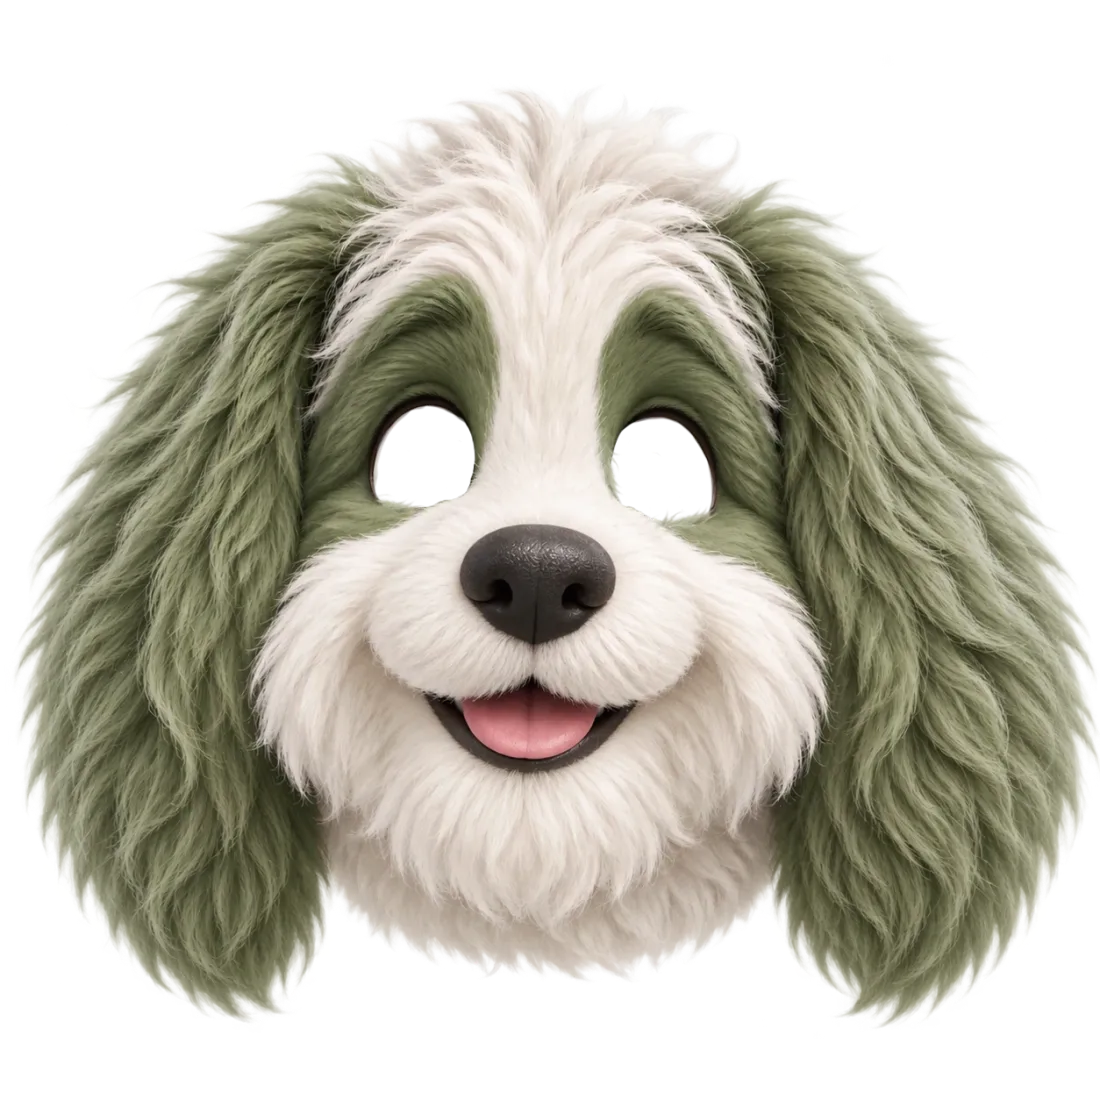
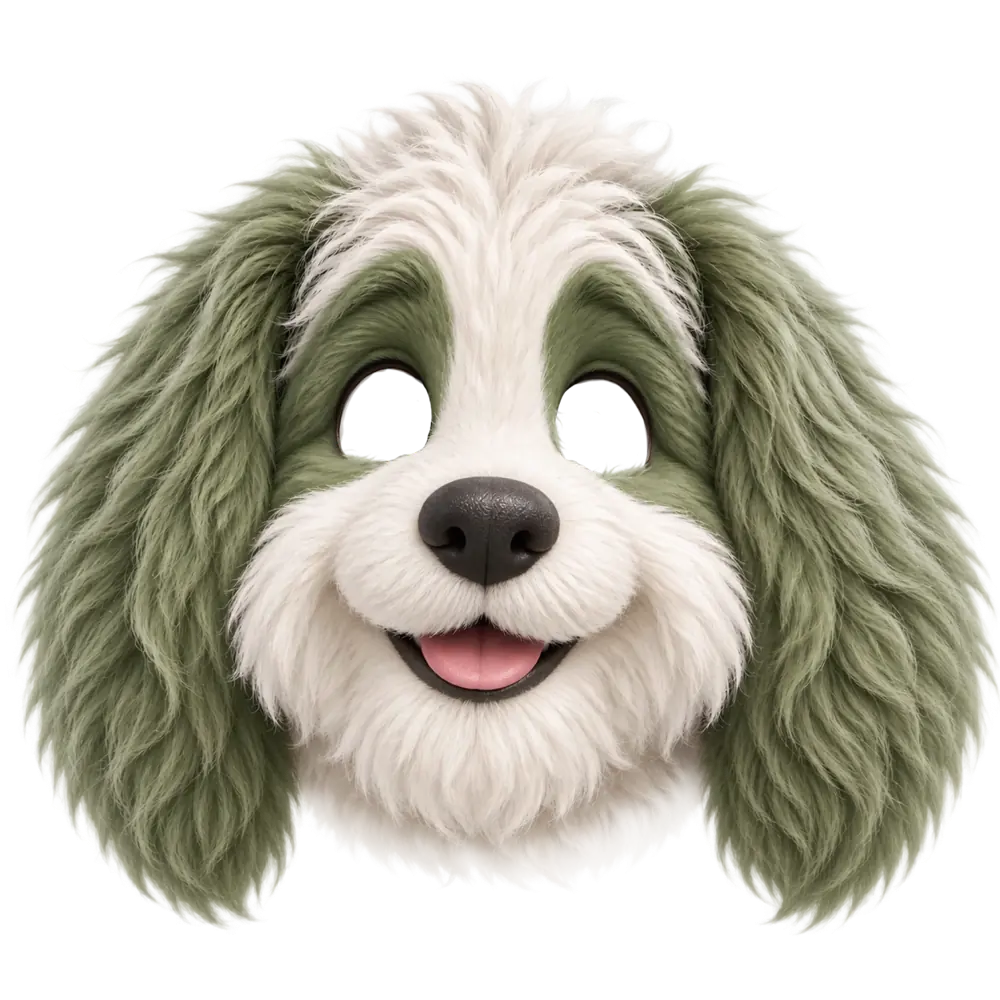
Лендінг: песик із тулубом — нова голова (прозорий низ) і тулуб окремим шаром позаду, стиснуті (1000/1200 px); на телефоні картка туру наїжджає на песика

Changed region(s): [[0.31, 0.744, 0.713, 0.899]]

diff --git a/index.html b/index.html
@@ -22,7 +22,7 @@
 <meta property="og:locale" content="uk_UA">
 <link rel="icon" href="/assets/favicon.png">
 <link rel="preload" href="/assets/fonts/Mulish_700Bold.ttf" as="font" type="font/ttf" crossorigin>
-<link rel="stylesheet" href="/assets/landing.css?v=b6d3cd04">
+<link rel="stylesheet" href="/assets/landing.css?v=844e7712">
 <script>document.documentElement.classList.add('js');try{var th=localStorage.getItem('theme');if(th)document.documentElement.dataset.theme=th}catch(e){}</script>
 <script src="https://cdnjs.cloudflare.com/ajax/libs/gsap/3.12.5/gsap.min.js" defer></script>
 <script src="https://cdnjs.cloudflare.com/ajax/libs/gsap/3.12.5/ScrollTrigger.min.js" defer></script>
@@ -46,9 +46,10 @@
     <p class="lead">Нагадає про ліки й щеплення, покаже аналізи на графіку, а QR на нашийнику допоможе повернути загубленого.</p>
     <div class="cta-row"><a class="btn btn-primary" href="https://play.google.com/store/apps/details?id=com.chepeti.app" rel="noopener"><img class="mono" src="https://cdn.simpleicons.org/googleplay/ffffff" alt="" width="20" height="20">Google Play</a><span class="btn btn-soon" aria-disabled="true"><img src="https://cdn.simpleicons.org/apple/8F8579" alt="" width="20" height="20">App Store <small>скоро</small></span></div>
     <div class="dog" aria-hidden="true">
+      <img class="body" src="/assets/dog/body.webp" alt="" width="1200" height="1200">
       <img class="eye eye-l" src="/assets/dog/eye-l.webp" alt="" width="226" height="226">
       <img class="eye eye-r" src="/assets/dog/eye-r.webp" alt="" width="226" height="226">
-      <img class="head" src="/assets/dog/head.webp" alt="" width="1100" height="1100" fetchpriority="high">
+      <img class="head" src="/assets/dog/head.webp" alt="" width="1000" height="1000" fetchpriority="high">
     </div>
   </div></div>
   <div class="tour-card" data-an="{&quot;dec&quot;: &quot;,&quot;, &quot;prev&quot;: &quot;попередній&quot;, &quot;norm&quot;: &quot;Норма&quot;, &quot;dates&quot;: [&quot;09.12&quot;, &quot;02.01&quot;, &quot;26.01&quot;, &quot;19.02&quot;, &quot;15.03&quot;, &quot;08.04&quot;, &quot;02.05&quot;, &quot;26.05&quot;, &quot;19.06&quot;, &quot;13.07&quot;, &quot;06.08&quot;, &quot;30.08&quot;, &quot;23.09&quot;, &quot;17.10&quot;, &quot;10.11&quot;], &quot;metrics&quot;: [{&quot;name&quot;: &quot;Креатинін&quot;, &quot;unit&quot;: &quot;мкмоль/л&quot;, &quot;v&quot;: [118, 124, 121, 135, 142, 150, 168, 181, 176, 205, 219, 196, 184, 172, 165], &quot;ref&quot;: [71, 212]}, {&quot;name&quot;: &quot;Глюкоза&quot;, &quot;unit&quot;: &quot;ммоль/л&quot;, &quot;v&quot;: [5.1, 5.6, 4.8, 6.2, 5.9, 7.4, 9.1, 8.6, 6.8, 6.1, 5.7, 5.4, 6.0, 5.8, 5.5], &quot;ref&quot;: [3.9, 8.3]}, {&quot;name&quot;: &quot;АЛТ&quot;, &quot;unit&quot;: &quot;Од/л&quot;, &quot;v&quot;: [45, 52, 48, 61, 58, 74, 96, 138, 112, 88, 70, 64, 59, 55, 51], &quot;ref&quot;: [12, 130]}], &quot;rows&quot;: [{&quot;title&quot;: &quot;Біохімія&quot;, &quot;date&quot;: &quot;10 лис 2026&quot;, &quot;series&quot;: 14}, {&quot;title&quot;: &quot;Біохімія&quot;, &quot;date&quot;: &quot;17 жов 2026&quot;, &quot;series&quot;: 13}, {&quot;title&quot;: &quot;Сеча&quot;, &quot;date&quot;: &quot;9 жов 2026&quot;, &quot;vals&quot;: [[&quot;pH&quot;, &quot;6,8&quot;], [&quot;Питома вага&quot;, &quot;1.035&quot;]]}, {&quot;title&quot;: &quot;Кров (загальний аналіз)&quot;, &quot;date&quot;: &quot;4 жов 2026&quot;, &quot;vals&quot;: [[&quot;Лейкоцити&quot;, &quot;14,2×10⁹/л&quot;]]}]}"><div class="tour-steps" aria-hidden="true"><span></span><span></span><span></span><span></span><span></span></div><div class="tour-grid">

diff --git a/en/index.html b/en/index.html
@@ -22,7 +22,7 @@
 <meta property="og:locale" content="en_US">
 <link rel="icon" href="/assets/favicon.png">
 <link rel="preload" href="/assets/fonts/Mulish_700Bold.ttf" as="font" type="font/ttf" crossorigin>
-<link rel="stylesheet" href="/assets/landing.css?v=b6d3cd04">
+<link rel="stylesheet" href="/assets/landing.css?v=844e7712">
 <script>document.documentElement.classList.add('js');try{var th=localStorage.getItem('theme');if(th)document.documentElement.dataset.theme=th}catch(e){}</script>
 <script src="https://cdnjs.cloudflare.com/ajax/libs/gsap/3.12.5/gsap.min.js" defer></script>
 <script src="https://cdnjs.cloudflare.com/ajax/libs/gsap/3.12.5/ScrollTrigger.min.js" defer></script>
@@ -46,9 +46,10 @@
     <p class="lead">Reminds you about meds and vaccines, charts lab results, and a QR tag on the collar helps bring a lost pet home.</p>
     <div class="cta-row"><a class="btn btn-primary" href="https://play.google.com/store/apps/details?id=com.chepeti.app" rel="noopener"><img class="mono" src="https://cdn.simpleicons.org/googleplay/ffffff" alt="" width="20" height="20">Google Play</a><span class="btn btn-soon" aria-disabled="true"><img src="https://cdn.simpleicons.org/apple/8F8579" alt="" width="20" height="20">App Store <small>soon</small></span></div>
     <div class="dog" aria-hidden="true">
+      <img class="body" src="/assets/dog/body.webp" alt="" width="1200" height="1200">
       <img class="eye eye-l" src="/assets/dog/eye-l.webp" alt="" width="226" height="226">
       <img class="eye eye-r" src="/assets/dog/eye-r.webp" alt="" width="226" height="226">
-      <img class="head" src="/assets/dog/head.webp" alt="" width="1100" height="1100" fetchpriority="high">
+      <img class="head" src="/assets/dog/head.webp" alt="" width="1000" height="1000" fetchpriority="high">
     </div>
   </div></div>
   <div class="tour-card" data-an="{&quot;dec&quot;: &quot;.&quot;, &quot;prev&quot;: &quot;previous&quot;, &quot;norm&quot;: &quot;Reference&quot;, &quot;dates&quot;: [&quot;09.12&quot;, &quot;02.01&quot;, &quot;26.01&quot;, &quot;19.02&quot;, &quot;15.03&quot;, &quot;08.04&quot;, &quot;02.05&quot;, &quot;26.05&quot;, &quot;19.06&quot;, &quot;13.07&quot;, &quot;06.08&quot;, &quot;30.08&quot;, &quot;23.09&quot;, &quot;17.10&quot;, &quot;10.11&quot;], &quot;metrics&quot;: [{&quot;name&quot;: &quot;Creatinine&quot;, &quot;unit&quot;: &quot;µmol/L&quot;, &quot;v&quot;: [118, 124, 121, 135, 142, 150, 168, 181, 176, 205, 219, 196, 184, 172, 165], &quot;ref&quot;: [71, 212]}, {&quot;name&quot;: &quot;Glucose&quot;, &quot;unit&quot;: &quot;mmol/L&quot;, &quot;v&quot;: [5.1, 5.6, 4.8, 6.2, 5.9, 7.4, 9.1, 8.6, 6.8, 6.1, 5.7, 5.4, 6.0, 5.8, 5.5], &quot;ref&quot;: [3.9, 8.3]}, {&quot;name&quot;: &quot;ALT&quot;, &quot;unit&quot;: &quot;U/L&quot;, &quot;v&quot;: [45, 52, 48, 61, 58, 74, 96, 138, 112, 88, 70, 64, 59, 55, 51], &quot;ref&quot;: [12, 130]}], &quot;rows&quot;: [{&quot;title&quot;: &quot;Blood chemistry&quot;, &quot;date&quot;: &quot;10 Nov 2026&quot;, &quot;series&quot;: 14}, {&quot;title&quot;: &quot;Blood chemistry&quot;, &quot;date&quot;: &quot;17 Oct 2026&quot;, &quot;series&quot;: 13}, {&quot;title&quot;: &quot;Urinalysis&quot;, &quot;date&quot;: &quot;9 Oct 2026&quot;, &quot;vals&quot;: [[&quot;pH&quot;, &quot;6.8&quot;], [&quot;Specific gravity&quot;, &quot;1.035&quot;]]}, {&quot;title&quot;: &quot;Complete blood count&quot;, &quot;date&quot;: &quot;4 Oct 2026&quot;, &quot;vals&quot;: [[&quot;White blood cells&quot;, &quot;14.2×10⁹/L&quot;]]}]}"><div class="tour-steps" aria-hidden="true"><span></span><span></span><span></span><span></span><span></span></div><div class="tour-grid">

diff --git a/assets/landing.css b/assets/landing.css
@@ -616,3 +616,10 @@ footer .copy { margin-left: auto; }
 .tour.flow .badge > i::after { inset: 7px; }
 .tour.flow .flow-media > .an-set.badge-set { display: block; left: -10px; right: -10px; }
 .tour.flow .flow-step .badge { width: auto; flex: 0 0 auto; max-width: 88%; }
+
+/* Тулуб песика (власник 18.11): окремий шар позаду голови (очі лишаються на своїх місцях), у 1,6 раза ширший за голову —
+   так задано в макеті (2000 px до голови 1254 px); нижня частина ховається під зеленою карткою туру. */
+.dog .body { left: -30%; top: 18%; width: 160%; height: auto; z-index: 0; }
+/* Телефон (тур без «прибивання»): зелена картка наїжджає на низ песика, тулуб ховається під нею. */
+.tour.flow .tour-intro { position: relative; z-index: 0; }
+.tour.flow .tour-card { position: relative; z-index: 1; margin-top: -120px; }

diff --git a/tools/build_landing.py b/tools/build_landing.py
@@ -319,9 +319,10 @@ def page(t: dict) -> str:
     <p class="lead">{t['lead']}</p>
     <div class="cta-row">{btn_play}{btn_soon}</div>
     <div class="dog" aria-hidden="true">
+      <img class="body" src="{a}dog/body.webp" alt="" width="1200" height="1200">
       <img class="eye eye-l" src="{a}dog/eye-l.webp" alt="" width="226" height="226">
       <img class="eye eye-r" src="{a}dog/eye-r.webp" alt="" width="226" height="226">
-      <img class="head" src="{a}dog/head.webp" alt="" width="1100" height="1100" fetchpriority="high">
+      <img class="head" src="{a}dog/head.webp" alt="" width="1000" height="1000" fetchpriority="high">
     </div>
   </div></div>
   <div class="tour-card" data-an="{an_data(t)}"><div class="tour-steps" aria-hidden="true">{'<span></span>' * len(t['tour'])}</div><div class="tour-grid">
